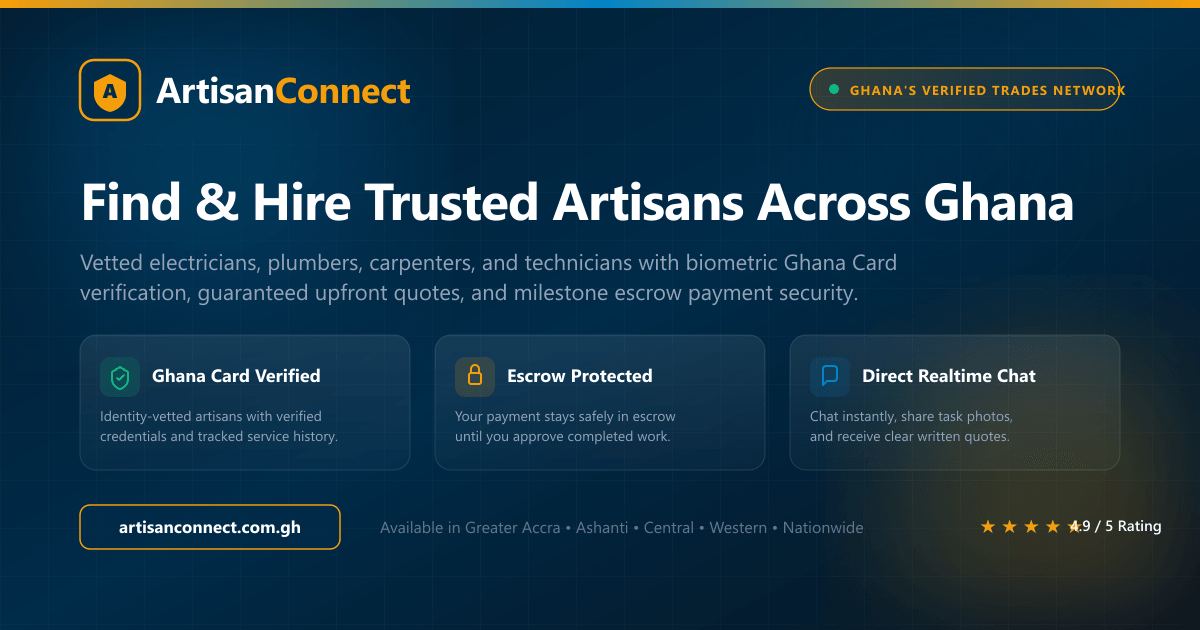
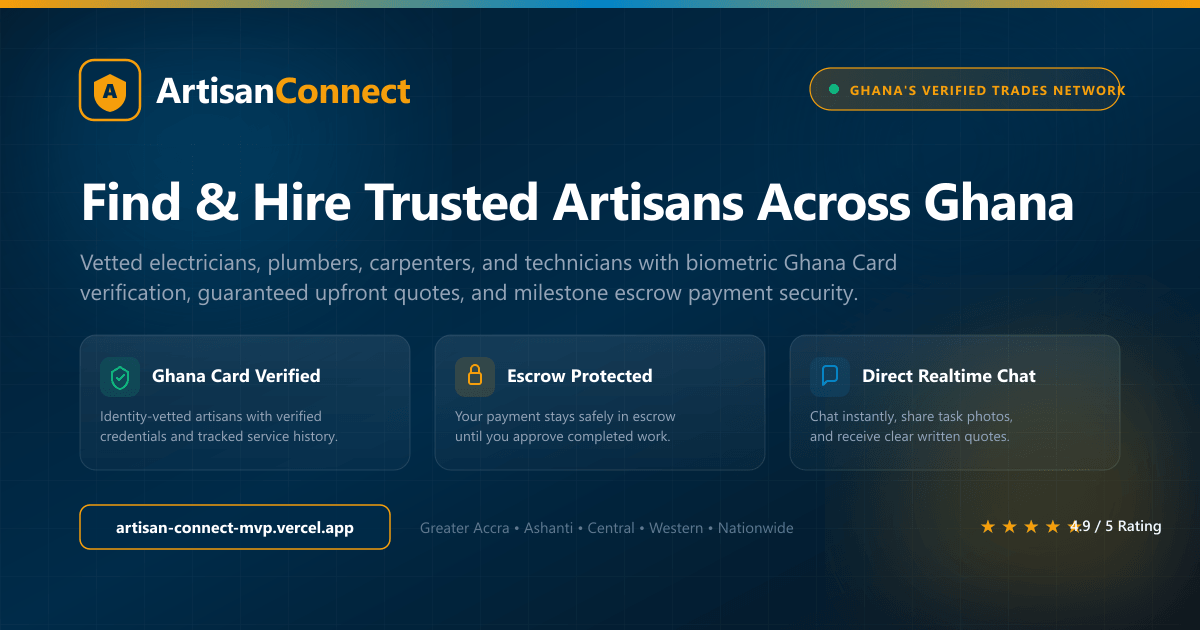
fix(seo): update production domain and social preview cards to artisan-connect-mvp.vercel.app

Changed region(s): [[0.0925, 0.7841, 0.7092, 0.8746]]

diff --git a/apps/web/scripts/generate-og.js b/apps/web/scripts/generate-og.js
@@ -162,14 +162,14 @@ const svg = `
     <!-- Bottom Footer Row -->
     <g transform="translate(0, 445)">
       <!-- Domain Pill -->
-      <rect width="260" height="44" rx="10" fill="rgba(0, 43, 73, 0.8)" stroke="#F59E0B" stroke-width="1.5" />
-      <text x="130" y="28" font-family="-apple-system, BlinkMacSystemFont, 'Segoe UI', Roboto, sans-serif" font-weight="700" font-size="17" fill="#FFFFFF" text-anchor="middle">
-        artisanconnect.com.gh
+      <rect width="310" height="44" rx="10" fill="rgba(0, 43, 73, 0.8)" stroke="#F59E0B" stroke-width="1.5" />
+      <text x="155" y="28" font-family="-apple-system, BlinkMacSystemFont, 'Segoe UI', Roboto, sans-serif" font-weight="700" font-size="16" fill="#FFFFFF" text-anchor="middle">
+        artisan-connect-mvp.vercel.app
       </text>
 
       <!-- Regions list -->
-      <text x="300" y="28" font-family="-apple-system, BlinkMacSystemFont, 'Segoe UI', Roboto, sans-serif" font-weight="500" font-size="16" fill="#64748B">
-        Available in Greater Accra • Ashanti • Central • Western • Nationwide
+      <text x="340" y="28" font-family="-apple-system, BlinkMacSystemFont, 'Segoe UI', Roboto, sans-serif" font-weight="500" font-size="15" fill="#64748B">
+        Greater Accra • Ashanti • Central • Western • Nationwide
       </text>
 
       <!-- Trust Rating -->

diff --git a/apps/web/src/lib/email.ts b/apps/web/src/lib/email.ts
@@ -4,7 +4,7 @@ import prisma from '@/lib/prisma';
 // It is possible this is called on the edge, so gracefully degrade if RESEND_API_KEY is missing
 const resend = process.env.RESEND_API_KEY ? new Resend(process.env.RESEND_API_KEY) : null;
 const FROM_EMAIL = process.env.FROM_EMAIL || 'ArtisanConnect <onboarding@resend.dev>';
-const APP_URL = process.env.NEXT_PUBLIC_APP_URL || 'https://artisanconnect.com.gh';
+const APP_URL = process.env.NEXT_PUBLIC_APP_URL || (process.env.VERCEL_URL ? `https://${process.env.VERCEL_URL}` : 'https://artisan-connect-mvp.vercel.app');
 
 /**
  * Logs the email attempt to the database

diff --git a/apps/web/src/app/opengraph-image.tsx b/apps/web/src/app/opengraph-image.tsx
@@ -5,7 +5,8 @@ export const size = { width: 1200, height: 630 };
 export const contentType = 'image/png';
 
 export default async function Image() {
-  const domain = (process.env.NEXT_PUBLIC_APP_URL || 'https://artisanconnect.com.gh').replace(/^https?:\/\//, '');
+  const rawUrl = process.env.NEXT_PUBLIC_APP_URL || (process.env.VERCEL_URL ? `https://${process.env.VERCEL_URL}` : 'https://artisan-connect-mvp.vercel.app');
+  const domain = rawUrl.replace(/^https?:\/\//, '');
 
   return new ImageResponse(
     (

diff --git a/apps/web/src/app/layout.tsx b/apps/web/src/app/layout.tsx
@@ -4,7 +4,7 @@ import { ThemeProvider } from "@/components/providers/ThemeProvider";
 import { CookieConsent } from '@/components/ui/CookieConsent';
 import "./globals.css";
 
-const siteUrl = process.env.NEXT_PUBLIC_APP_URL || 'https://artisanconnect.com.gh';
+const siteUrl = process.env.NEXT_PUBLIC_APP_URL || (process.env.VERCEL_URL ? `https://${process.env.VERCEL_URL}` : 'https://artisan-connect-mvp.vercel.app');
 
 export const viewport: Viewport = {
   themeColor: '#002B49',

diff --git a/apps/web/src/app/sitemap.ts b/apps/web/src/app/sitemap.ts
@@ -1,7 +1,7 @@
 import type { MetadataRoute } from 'next';
 
 export default function sitemap(): MetadataRoute.Sitemap {
-  const baseUrl = process.env.NEXT_PUBLIC_APP_URL || 'https://artisanconnect.com.gh';
+  const baseUrl = process.env.NEXT_PUBLIC_APP_URL || (process.env.VERCEL_URL ? `https://${process.env.VERCEL_URL}` : 'https://artisan-connect-mvp.vercel.app');
 
   return [
     { url: baseUrl, lastModified: new Date(), changeFrequency: 'weekly', priority: 1 },

diff --git a/apps/web/src/app/robots.ts b/apps/web/src/app/robots.ts
@@ -1,7 +1,7 @@
 import type { MetadataRoute } from 'next';
 
 export default function robots(): MetadataRoute.Robots {
-  const baseUrl = process.env.NEXT_PUBLIC_APP_URL || 'https://artisanconnect.com.gh';
+  const baseUrl = process.env.NEXT_PUBLIC_APP_URL || (process.env.VERCEL_URL ? `https://${process.env.VERCEL_URL}` : 'https://artisan-connect-mvp.vercel.app');
   return {
     rules: {
       userAgent: '*',
